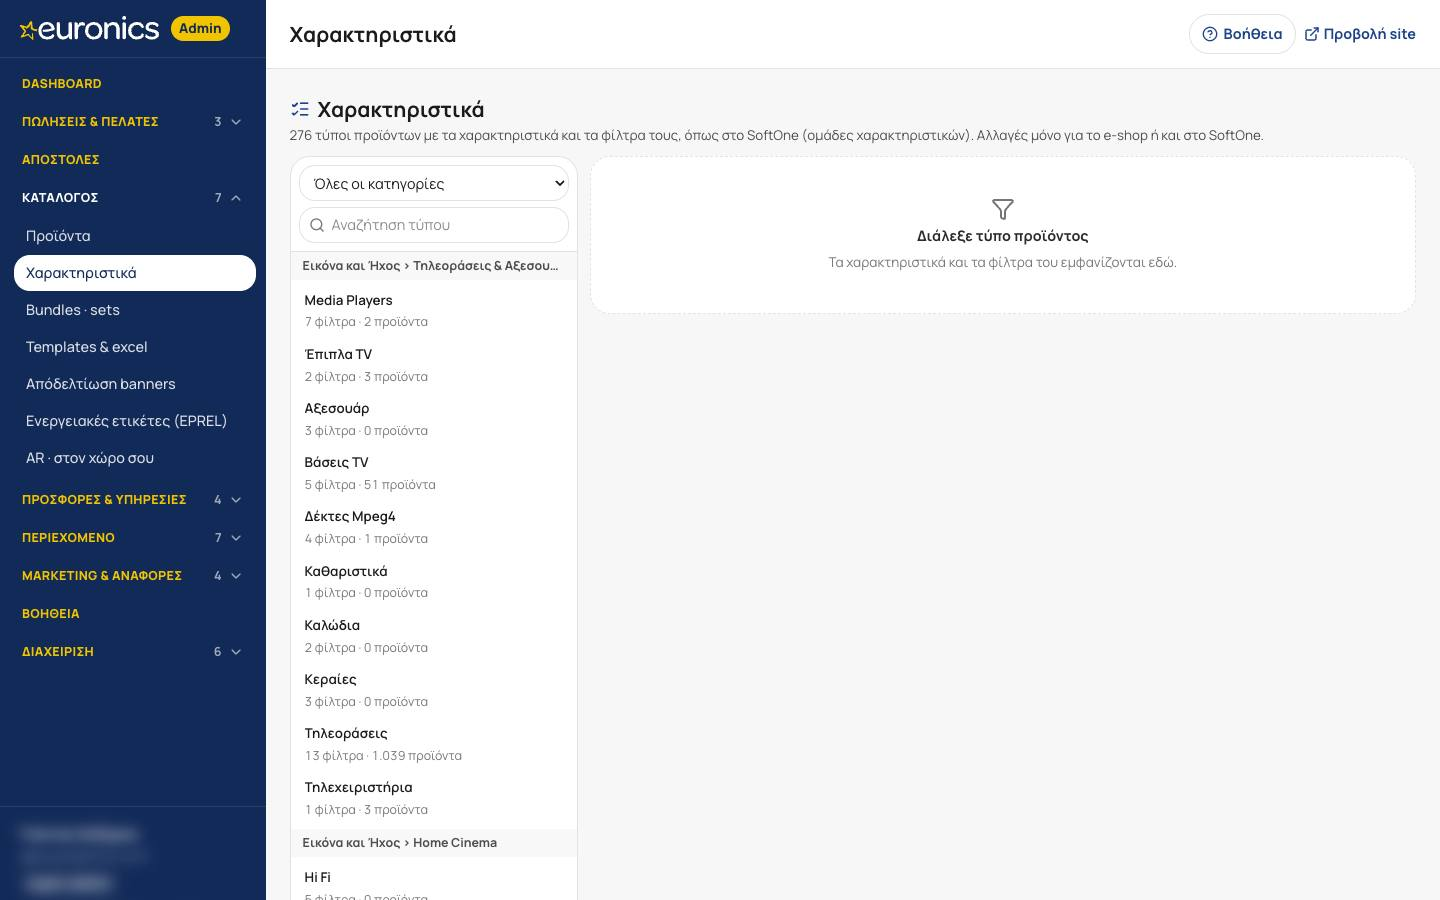
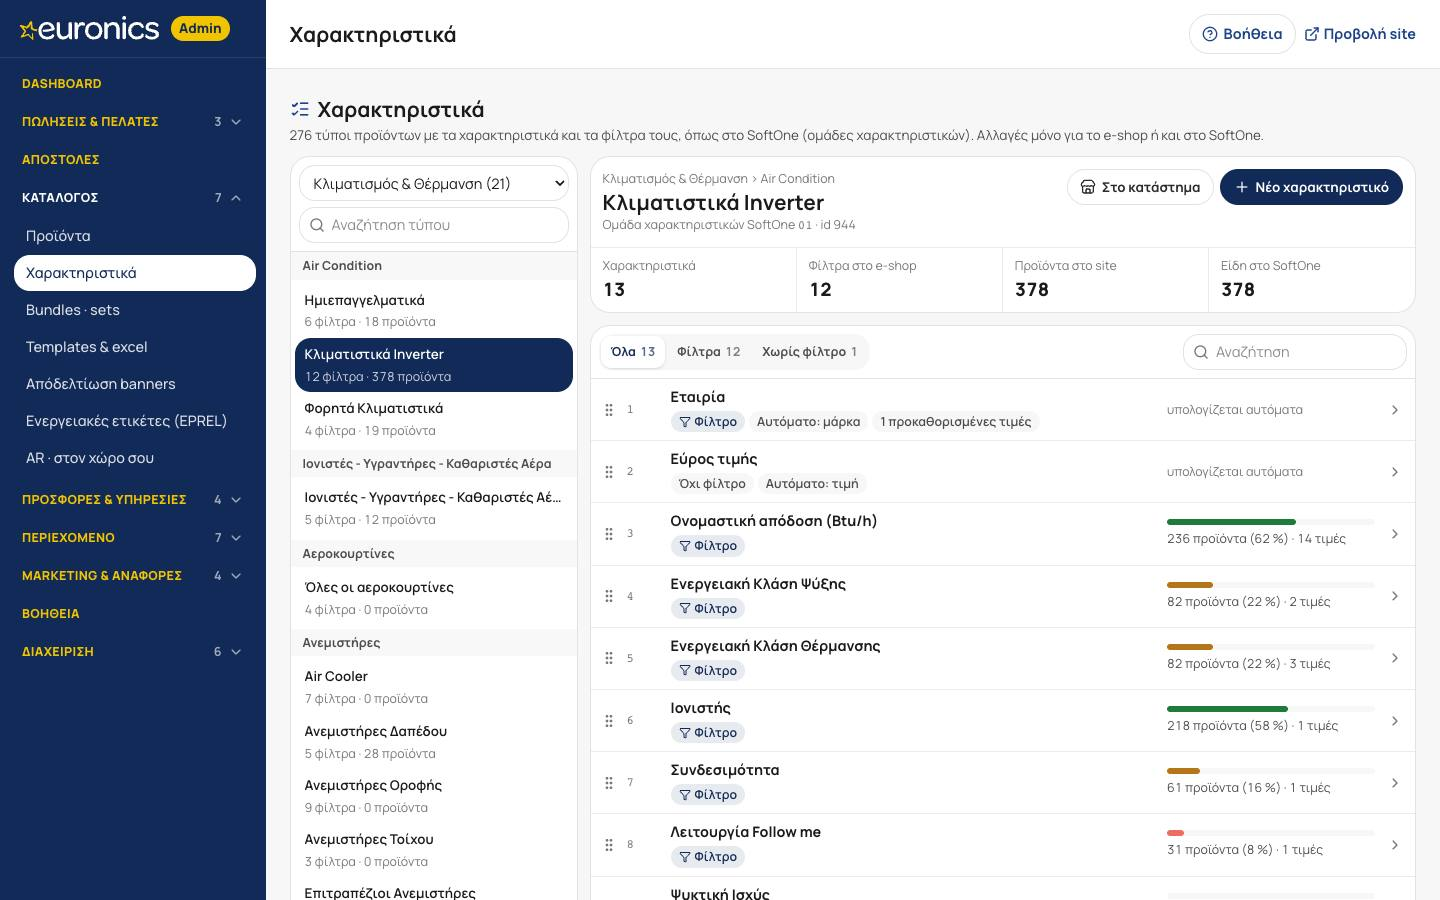
Βοήθεια: screenshot Χαρακτηριστικών με ανοιχτό τύπο (Κλιματιστικά Inverter) — το help:shots δέχεται διεύθυνση ανά σελίδα (SHOT_QUERY)· κινητό: το κουμπί μενού της διαχείρισης μένει μέσα στην οθόνη και κόβει μακριά ονόματα σελίδων με «…»

diff --git a/scripts/help-shots.ts b/scripts/help-shots.ts
@@ -22,6 +22,8 @@ const OUT = join(process.cwd(), "help-shots");
 const SKIP = new Set(["/admin/help", "/admin/forbidden"]);
 /** σελίδες με προσωπικά δεδομένα πελατών/προσωπικού: ΠΟΤΕ σε εικόνα (GDPR) */
 const PII = new Set(["/admin/customers", "/admin/customers/import", "/admin/gdpr", "/admin/staff", "/admin/audit", "/admin/newsletter", "/admin/softone/customers", "/admin/prosfores/anafores", "/admin/prosfores/kouponia", "/admin/reports/wishlist"]);
+/** σελίδες που δείχνουν περισσότερα με ανοιχτή μια εγγραφή (π.χ. Χαρακτηριστικά: ένας τύπος προϊόντος, όχι κενό δεξί μέρος) */
+const SHOT_QUERY: Record<string, string> = { "/admin/catalog/specs": "?g=944" };
 const only = process.argv.slice(2).filter((a) => a.startsWith("/admin"));
 const routes = (generated as unknown as Generated).routes.filter((r) => !r.dynamic && !SKIP.has(r.route) && !PII.has(r.route) && (!only.length || only.includes(r.route)));
 
@@ -57,7 +59,7 @@ async function main() {
     try {
       for (const [k, vp] of [["d", { width: 1440, height: 900 }], ["m", { width: 390, height: 844 }]] as const) {
         await page.setViewportSize(vp);
-        await page.goto(`${BASE}${r.route}`, { waitUntil: "networkidle", timeout: 120_000 });
+        await page.goto(`${BASE}${r.route}${SHOT_QUERY[r.route] ?? ""}`, { waitUntil: "networkidle", timeout: 120_000 });
         if (page.url().includes("/admin/forbidden") || page.url().includes("/admin/login")) throw new Error("χωρίς πρόσβαση");
         await page.waitForTimeout(1200);
         await page.screenshot({ path: join(OUT, `${slug}-${k}.jpg`), type: "jpeg", quality: 72 });

diff --git a/components/admin/AdminNavLinks.tsx b/components/admin/AdminNavLinks.tsx
@@ -96,8 +96,8 @@ export function AdminNavLinks({ groups, variant = "sidebar", footer }: { groups:
   // κινητό / tablet: ένα κουμπί στη μπάρα, το μενού ανοίγει ως συρτάρι πάνω από τη σελίδα
   return (
     <>
-      <button type="button" onClick={() => setOpen(true)} aria-expanded={open} aria-controls="admin-drawer" className="inline-flex items-center gap-2 rounded-full bg-white/10 hover:bg-white/20 pl-3 pr-4 min-h-11 font-bold text-[length:var(--fs-14)] min-w-0">
-        <Menu className="size-5 shrink-0" aria-hidden /> <span className="truncate max-w-[40vw]">{activeLabel ?? "Μενού"}</span>
+      <button type="button" onClick={() => setOpen(true)} aria-expanded={open} aria-controls="admin-drawer" className="inline-flex items-center gap-2 rounded-full bg-white/10 hover:bg-white/20 pl-3 pr-4 min-h-11 font-bold text-[length:var(--fs-14)] min-w-0 max-w-full">
+        <Menu className="size-5 shrink-0" aria-hidden /> <span className="truncate max-w-[32vw]">{activeLabel ?? "Μενού"}</span>
       </button>
       {open && (
         <div className="fixed inset-0 z-50" role="dialog" aria-modal="true" aria-label="Μενού διαχείρισης" id="admin-drawer">

diff --git a/components/admin/AdminShell.tsx b/components/admin/AdminShell.tsx
@@ -52,7 +52,7 @@ export async function AdminShell({ user, children, title }: { user: { name?: str
         <div className="px-4 @5xl:px-5 min-h-14 @5xl:py-4 flex items-center gap-3 @5xl:border-b border-white/10">
           <Image src="/design/logo-on-blue.svg" alt="euronics" width={110} height={28} className="h-6 w-auto shrink-0" />
           <span className="hidden @sm:inline rounded-full bg-eu-yellow text-eu-navy font-extrabold text-[length:var(--fs-13)] px-2 py-0.5">Admin</span>
-          <span className="ml-auto @5xl:hidden min-w-0"><AdminNavLinks variant="drawer" groups={navGroups} footer={userBlock} /></span>
+          <span className="ml-auto @5xl:hidden min-w-0 flex justify-end"><AdminNavLinks variant="drawer" groups={navGroups} footer={userBlock} /></span>
         </div>
         <div className="hidden @5xl:flex flex-col flex-1">
           <AdminNavLinks groups={navGroups} />
